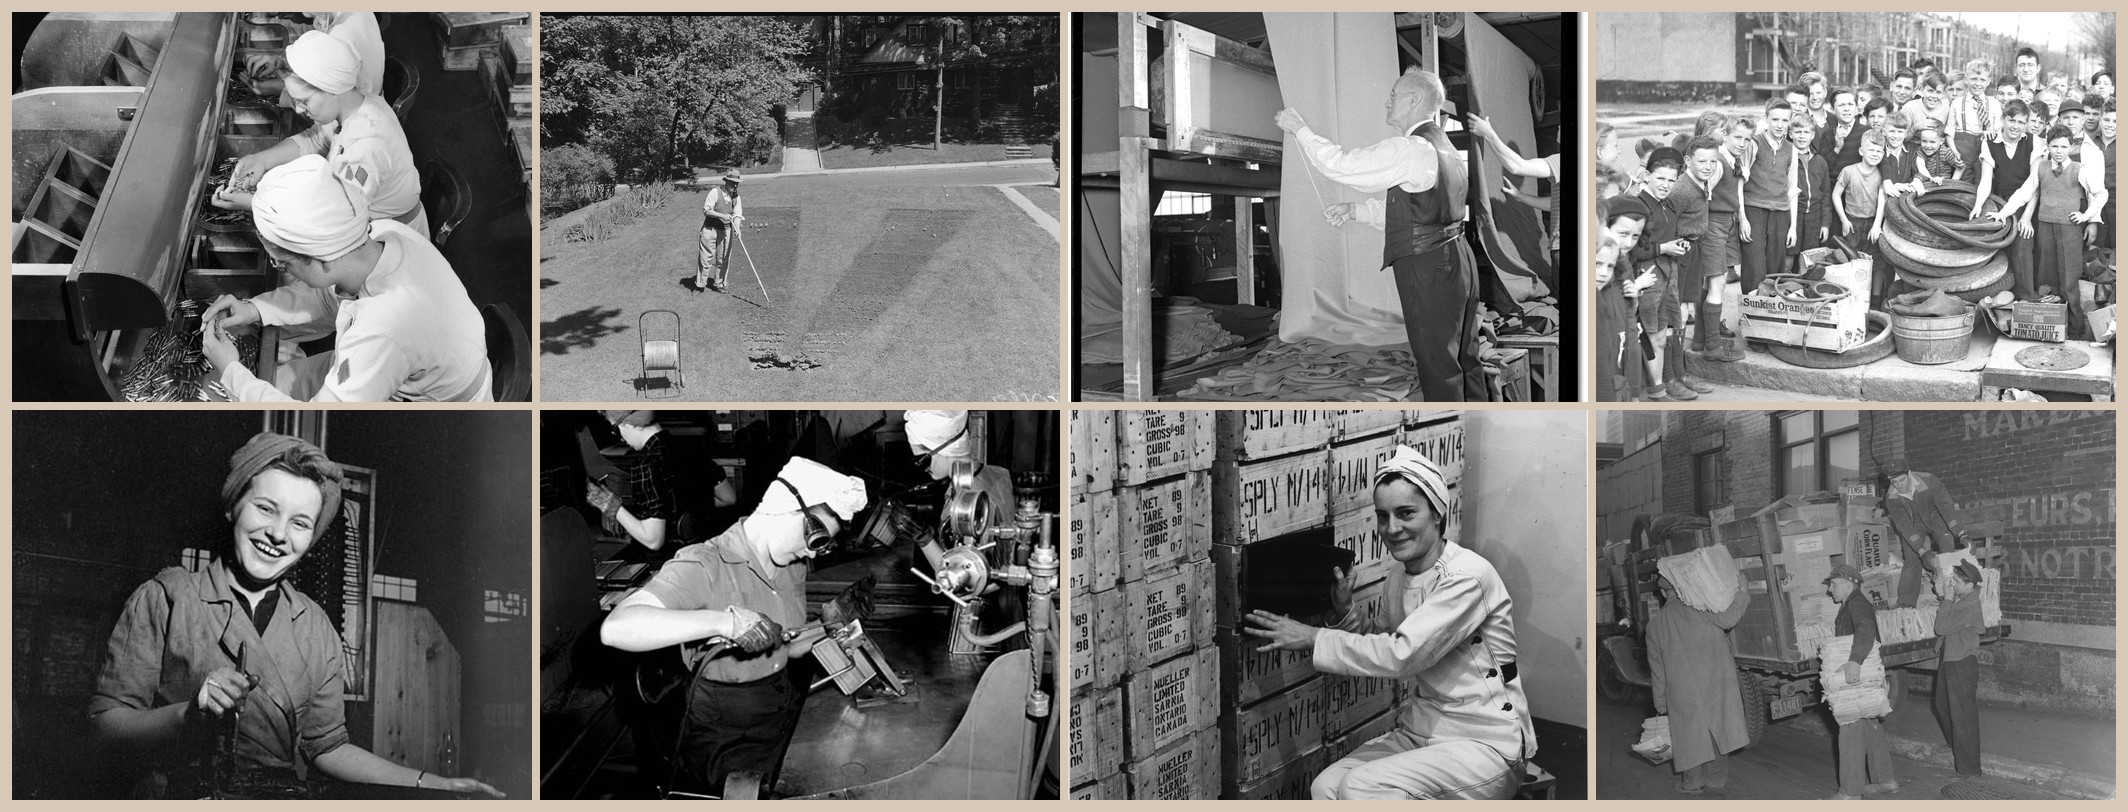
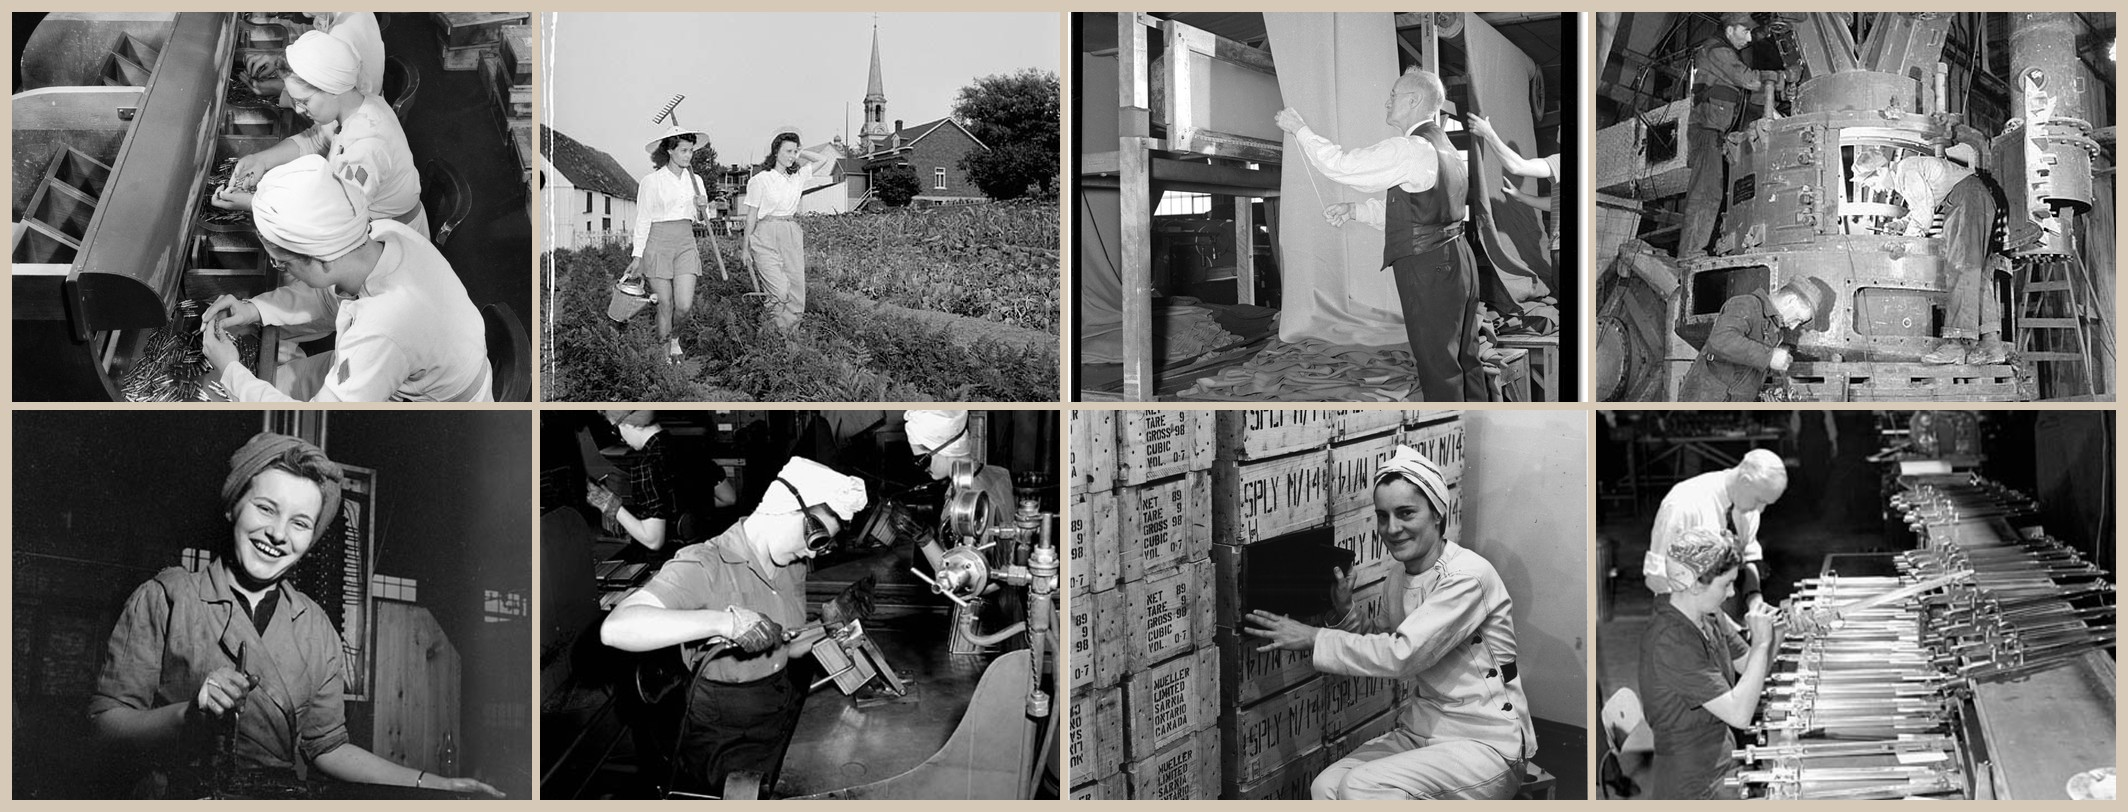
Drop Crown-copyright Korea still; use expired NFB home-front photos
Remove the DND Special Force Korea photograph (Copyright: Government of Canada). Fill that slot with Hélène Lalonde at Montreal Cottons (NFB Photothèque, copyright expired). Cover food, rubber, and salvage with a Toronto victory garden (CC BY 2.0), the Perry sisters plant garden and Polymer Rubber plant (NFB Expired / CC BY 2.0), and the GECO clothing salvage still.

Changed region(s): [[0.7444, 0.0, 1.0, 0.9852], [0.2481, 0.0, 0.4962, 0.4926]]

diff --git a/docs/imagery-sources.md b/docs/imagery-sources.md
@@ -2,6 +2,8 @@
 
 The README uses official Canadian archival photographs. Every file below was checked for watermarks. Search-preview thumbs and City of Edmonton Archives overlay marks were replaced. Prefer the official item or the archive's own Flickr Commons original over a third-party mirror.
 
+**License rule:** do not use LAC Department of National Defence / Special Force photographs that still carry `Copyright: Government of Canada`, even when Restrictions on use are `Nil`. Those are Crown copyright, not an open citation license for this README. Prefer NFB Photothèque stills marked Copyright `Expired`, LAC Flickr Commons `CC BY 2.0`, Provincial Archives of Alberta expired / no known restrictions, City of Edmonton Archives public domain, or another official Canadian archive with an explicit open citation license.
+
 ## README feature images
 
 1. `docs/assets/women-workers-small-arms.jpg` — **kept** (clean official LAC download, no watermark)
@@ -28,17 +30,17 @@ The README uses official Canadian archival photographs. Every file below was che
 - License / restrictions: Restrictions on use `nil`; Copyright `Expired`
 - README credit: pair credit with item 1
 
-3. `docs/assets/five-soldiers-korea-1951.jpg` — **added** (replaces watermarked `high-level-bridge-edmonton-1909.jpg`)
+3. `docs/assets/helene-lalonde-textile.jpg` — **promoted** (replaces the withdrawn Crown-copyright Korea still)
 
-- Title: `[Five Canadian soldiers in Korea]`
-- Date: `3 June 1951`
-- Creator: Sgt. Bill Olson, 25 PRU (Canadian Public Relations Unit)
-- Archive: Library and Archives Canada, Department of National Defence fonds / Canadian Forces Joint Imagery Centre
-- Reference: Item ID `6266417`; SF-1789; ecopy `e011502811`
-- Official record: `https://recherche-collection-search.bac-lac.gc.ca/eng/home/record?app=fonandcol&ecopy=e011502811&idnumber=6266417`
-- Download URL used: `https://central.bac-lac.gc.ca/.item?id=e011502811&op=img&app=fonandcol`
-- License / restrictions: Official DND photograph. Crown copyright expired (first published 1951; Crown term is the remainder of the calendar year of publication plus 50 years). Credit required.
-- README credit: `Sgt. Bill Olson / Department of National Defence / Library and Archives Canada, e011502811 (Crown copyright expired).`
+- Title: `Helene Lalonde, woman worker at the Montreal Cottons Textile factory, operates a loom`
+- Date: wartime NFB still (WRM 1595)
+- Creator: Nicholas Morant
+- Archive: Library and Archives Canada / National Film Board of Canada. Photothèque
+- Reference: `PA-160566` / WRM 1595 / Item `3192151` / ecopy `a160566`
+- Official record: `https://recherche-collection-search.bac-lac.gc.ca/eng/home/record?app=FonAndCol&ecopy=a160566&idnumber=3192151`
+- Download URL used: existing repo file from the official LAC item endpoint (3204×2400)
+- License / restrictions: Restrictions on use `nil`; Copyright `Expired`
+- README credit: `Nicholas Morant / National Film Board of Canada. Photothèque / Library and Archives Canada, PA-160566 (copyright expired).`
 
 4. `docs/assets/welder-robin-nodwell-calgary-1963.jpg` — **replaced file** (same slot; higher-res PAA Flickr Commons original)
 
@@ -104,17 +106,16 @@ The README uses official Canadian archival photographs. Every file below was che
 - License / restrictions: `Public domain` (Archives of Ontario GLAM upload)
 - README credit: `Archives of Ontario, I0004928, public domain`
 
-8. `docs/assets/children-collecting-rubber-rosemont.jpg` — **added** (replaces watermarked `alberta-lumber-co-factory-1908.jpg`)
+8. `docs/assets/victory-gardens-toronto-1943.jpg` — **promoted to the pair slot** (food / victory garden)
 
-- Title: `Children collecting rubber` / two boys in Rosemont gathering scrap rubber for the armed forces
-- Date: `29 April 1942`
-- Creator: Conrad Poirier (1912–1968)
-- Archive: Bibliothèque et Archives nationales du Québec, Fonds Conrad Poirier
-- Reference: `P48,S1,P7495`
-- Official record: `http://pistard.banq.qc.ca/unite_chercheurs/Prc_acces_unite_chercheur?p_codedepo=06M&P_codeclas=P&P_numfonds=48&P_numserie=1&P_numsseri=0&P_numssser=0&P_numdossi=0&P_numpiece=7495`
-- Download URL used: `https://upload.wikimedia.org/wikipedia/commons/0/0b/Children_collecting_rubber.jpg`
-- License / restrictions: `Public domain` in Canada (Poirier died 1968; work entered the public domain under the former life-plus-50 term before the 2022 term change). Commons: `PD-Canada` / `PD-1996`.
-- README credit: `Conrad Poirier / BAnQ, P48,S1,P7495, public domain`
+- Title: `Victory Gardens, A.J. Denne, 15 Pine Crescent`
+- Date: `5 June 1943`
+- Creator: Globe and Mail staff photographer
+- Archive: City of Toronto Archives, fonds 1266 (Globe and Mail fonds)
+- Official Flickr (City of Toronto Archives / Toronto History): `https://www.flickr.com/photos/torontohistory/30116253760/`
+- Download URL used: `https://upload.wikimedia.org/wikipedia/commons/2/22/Victory_Gardens%2C_A.J._Denne%2C_15_Pine_Crescent_%2830116253760%29.jpg` (caption strip cropped in-repo)
+- License / restrictions: `CC BY 2.0` (FlickreviewR 2 confirmed)
+- README credit: `City of Toronto Archives, fonds 1266, CC BY 2.0`
 
 9. `docs/assets/collage-museum-wall.jpg` — **rebuilt** 2×4 grid from the eight stills below
 
@@ -130,16 +131,16 @@ The README uses official Canadian archival photographs. Every file below was che
 - License: `Public domain`
 - README credit: `Archives of Ontario, I0058215, public domain`
 
-11. `docs/assets/victory-gardens-toronto-1943.jpg`
+11. `docs/assets/perry-sisters-victory-garden-1942.jpg`
 
-- Title: `Victory Gardens, A.J. Denne, 15 Pine Crescent`
-- Date: `5 June 1943`
-- Creator: Globe and Mail staff photographer
-- Archive: City of Toronto Archives, fonds 1266 (Globe and Mail fonds)
-- Official Flickr (City of Toronto Archives / Toronto History): `https://www.flickr.com/photos/torontohistory/30116253760/`
-- Download URL used: `https://upload.wikimedia.org/wikipedia/commons/2/22/Victory_Gardens%2C_A.J._Denne%2C_15_Pine_Crescent_%2830116253760%29.jpg` (caption strip cropped in-repo)
-- License / restrictions: `CC BY 2.0` (FlickreviewR 2 confirmed)
-- README credit: `City of Toronto Archives, fonds 1266, CC BY 2.0`
+- Title: `The Perry sisters, employed at the Dominion Arsenals Ltd. plant, armed with rake, watering can and pitchfork`
+- Date: `24 August 1942`
+- Creator: Harry Rowed
+- Archive: Library and Archives Canada / National Film Board of Canada. Photothèque
+- Official Flickr Commons: `https://www.flickr.com/photos/lac-bac/20256970894/`
+- Download URL used: `https://upload.wikimedia.org/wikipedia/commons/a/ac/The_Perry_sisters%2C_employed_at_the_Dominion_Arsenals_Ltd._plant%2C_armed_with_rake%2C_watering_can_and_pitchfork_%2820256970894%29.jpg`
+- License / restrictions: LAC Flickr Commons `CC BY 2.0`
+- README credit: `Harry Rowed / NFB Photothèque / LAC, CC BY 2.0`
 
 12. `docs/assets/making-uniforms-tip-top-tailors.jpg`
 
@@ -153,17 +154,17 @@ The README uses official Canadian archival photographs. Every file below was che
 - License / restrictions: `Copyright expired` / `Public domain` (pre-1946 Canadian photograph)
 - README credit: `Gordon W. Powley / Archives of Ontario, C 109-2-0-18, copyright expired`
 
-13. `docs/assets/brigade-enfantine-rosemont.jpg`
+13. `docs/assets/polymer-rubber-plant-sarnia-1943.jpg`
 
-- Title: `Children. Rosemont Children Gather Rubber for Salvage`
-- Date: `29 April 1942`
-- Creator: Conrad Poirier
-- Archive: BAnQ, Fonds Conrad Poirier
-- Reference: `P48,S1,P7493`
-- Official record: `http://pistard.banq.qc.ca/unite_chercheurs/Prc_acces_unite_chercheur?p_codedepo=06M&P_codeclas=P&P_numfonds=48&P_numserie=1&P_numsseri=0&P_numssser=0&P_numdossi=0&P_numpiece=7493`
-- Download URL used: `https://upload.wikimedia.org/wikipedia/commons/d/dc/Brigade_enfantine_dans_Rosemont.jpg`
-- License / restrictions: `Public domain` (`PD-Canada`)
-- README credit: `Conrad Poirier / BAnQ, P48,S1,P7493, public domain`
+- Title: `Workmen assemble a coal pulverizing mill in the Polymer Rubber Corporation plant`
+- Date: `October 1943`
+- Creator: Harry Rowed
+- Archive: Library and Archives Canada / National Film Board of Canada. Photothèque
+- Reference: ecopy `e000761792` / Item `3196996`
+- Official record: `https://recherche-collection-search.bac-lac.gc.ca/eng/home/record?app=FonAndCol&ecopy=e000761792&idnumber=3196996`
+- Download URL used: `https://central.bac-lac.gc.ca/.item?id=e000761792&op=img&app=fonandcol`
+- License / restrictions: Restrictions on use `nil`; Copyright `Expired`
+- README credit: `Harry Rowed / NFB Photothèque / LAC, e000761792, copyright expired`
 
 14. `docs/assets/small-arms-machinist-laughing.jpg` — **kept** (clean official LAC download)
 
@@ -201,17 +202,20 @@ The README uses official Canadian archival photographs. Every file below was che
 - License: `Public domain`
 - README credit: `Archives of Ontario, I0004900, public domain`
 
-17. `docs/assets/news-salvage-montreal-1943.jpg`
+17. `docs/assets/john-inglis-assembling-bren-blank.jpg` — **kept** (clean official LAC download)
 
-- Title: `News. Salvage`
-- Date: `12 November 1943`
-- Creator: Conrad Poirier
-- Archive: BAnQ, Fonds Conrad Poirier
-- Reference: `P48,S1,P9360`
-- Official record: `http://pistard.banq.qc.ca/unite_chercheurs/Prc_acces_unite_chercheur?p_codedepo=06M&P_codeclas=P&P_numfonds=48&P_numserie=1&P_numsseri=0&P_numssser=0&P_numdossi=0&P_numpiece=9360`
-- Download URL used: `https://upload.wikimedia.org/wikipedia/commons/a/a9/News._Salvage_BAnQ_P48S1P09360.jpg`
-- License / restrictions: `Public domain` (`PD-Canada`)
-- README credit: `Conrad Poirier / BAnQ, P48,S1,P9360, public domain`
+- Title: `Woman munitions worker assembling a Bren gun blank at the John Inglis Co. Bren gun plant`
+- Date: `10 May 1941`
+- Archive: Library and Archives Canada / National Film Board of Canada. Photothèque
+- Reference: ecopy `e000760439` / Item `3195830` / WRM-805 on the print
+- Official record: `https://recherche-collection-search.bac-lac.gc.ca/eng/Home/Record?app=fonandcol&IdNumber=3195830&ecopy=e000760439`
+- Download URL used (existing repo file): `https://central.bac-lac.gc.ca/.item?id=e000760439&op=thumb&height=2400&app=fonandcol`
+- License / restrictions: NFB Photothèque wartime still; Copyright `Expired`
+- README credit: `NFB Photothèque / LAC, e000760439, copyright expired`
+
+## Withdrawn (not an open citation license)
+
+- `five-soldiers-korea-1951.jpg` (LAC e011502811, Sgt. Bill Olson / DND, 3 June 1951) was downloaded from the official LAC item endpoint, then **removed**. Korean War Special Force / DND stills at LAC commonly remain `Copyright: Government of Canada`. Restrictions on use `Nil` is not enough. No clean open-license Korea still was found, so Korea is skipped.
 
 ## Removed from the README (watermarked City of Edmonton Archives previews)
 
@@ -221,13 +225,9 @@ The City of Edmonton Archives marks EA-500 items Public Domain at the item level
 - `walters-saw-mill-edmonton-1908.jpg` — EA-500-205, watermarked 720×501 preview
 - `alberta-lumber-co-factory-1908.jpg` — EA-500-290, watermarked 734×511 preview
 
-## Additional clean LAC stills already in the repo (not currently embedded in the README)
+## Additional clean LAC stills already in the repo (not currently a README `<img>`)
 
-These remain available for later use. Each is an official LAC item download with expired copyright or Flickr Commons CC BY.
-
-- `docs/assets/helene-lalonde-textile.jpg` — LAC official, 3204×2400
 - `docs/assets/ready-for-action-shells.jpg` — LAC/NFB still, WAM-2817 on the print, 2305×2400
-- `docs/assets/john-inglis-assembling-bren-blank.jpg` — LAC e000760439, 1760×2400
 
 ## Older low-resolution extras (not in the README)
 

diff --git a/README.md b/README.md
@@ -86,10 +86,10 @@ Wiring up the places where the work lives usually costs money, time, and technic
 **WorkspaceAlberta solves the last mile** by giving an AI assistant the wiring it needs to search, compare, summarize, and brief public procurement opportunities from inside the workspace where the owner is already working.
 
 <p align="center">
-  <img src="docs/assets/five-soldiers-korea-1951.jpg" alt="Five Canadian soldiers on observation duty in Korea, 3 June 1951." width="100%">
+  <img src="docs/assets/helene-lalonde-textile.jpg" alt="Hélène Lalonde drawing in ends at a loom, Montreal Cottons, Valleyfield." width="100%">
 </p>
 
-<p align="center"><em>Canadian soldiers on observation duty in Korea, 3 June 1951 — Sgt. Bill Olson / Department of National Defence / Library and Archives Canada, e011502811 (Crown copyright expired).</em></p>
+<p align="center"><em>Hélène Lalonde drawing in ends at Montreal Cottons, Valleyfield — Nicholas Morant / National Film Board of Canada. Photothèque / Library and Archives Canada, PA-160566 (copyright expired).</em></p>
 
 ---
 
@@ -198,10 +198,10 @@ Any tool that helps a fabricator **create demand**, a mill **manufacture more ef
 
 <p align="center">
   <img src="docs/assets/clothing-salvage-geco.jpg" alt="Clothing salvage centre at the General Engineering Company munitions factory, Scarborough, circa 1943." width="49%">
-  <img src="docs/assets/children-collecting-rubber-rosemont.jpg" alt="Two boys collecting scrap rubber for a wartime salvage drive in Rosemont, Montreal, 29 April 1942." width="49%">
+  <img src="docs/assets/victory-gardens-toronto-1943.jpg" alt="A.J. Denne tending a V-shaped victory garden at 15 Pine Crescent, Toronto, 5 June 1943." width="49%">
 </p>
 
-<p align="center"><em>Home-front salvage: a clothing depot at the GECO munitions works, Scarborough, c. 1943 (Archives of Ontario, I0004928, public domain); boys collecting scrap rubber in Rosemont, Montréal, 29 April 1942 (Conrad Poirier / BAnQ, P48,S1,P7495, public domain).</em></p>
+<p align="center"><em>Home-front salvage and food: a clothing depot at the GECO munitions works, Scarborough, c. 1943 (Archives of Ontario, I0004928, public domain); A.J. Denne's victory garden, Toronto, 5 June 1943 (City of Toronto Archives, fonds 1266, CC BY 2.0).</em></p>
 
 More contracts won. More jobs kept. More skill developed. More value staying here at home.
 
@@ -246,10 +246,10 @@ Data and model sources:
 Image source notes live in [`docs/imagery-sources.md`](docs/imagery-sources.md).
 
 <p align="center">
-  <img src="docs/assets/collage-museum-wall.jpg" alt="A museum wall of Canadian industrial and home-front photography: munitions, victory gardens, salvage drives, and shops." width="100%">
+  <img src="docs/assets/collage-museum-wall.jpg" alt="A museum wall of Canadian industrial and home-front photography: munitions, victory gardens, synthetic rubber, and shops." width="100%">
 </p>
 
-<p align="center"><em>The museum wall. Top row: inspecting ammunition at GECO, Scarborough, c. 1943 (Archives of Ontario, I0058215, public domain); victory garden, A.J. Denne, Toronto, 5 June 1943 (City of Toronto Archives, fonds 1266, CC BY 2.0); cutting cloth for military uniforms at Tip Top Tailors, Toronto, 1939–45 (Gordon W. Powley / Archives of Ontario, C 109-2-0-18, copyright expired); Rosemont children's rubber salvage brigade, Montréal, 29 April 1942 (Conrad Poirier / BAnQ, P48,S1,P7493, public domain). Bottom row: a machinist laughing at Small Arms Limited, 26 May 1942 (Nicholas Morant / LAC, e000760725, CC BY 2.0); welding Bren-gun magazine clips at John Inglis, April 1944 (Ronny Jaques / LAC, e000762114, CC BY 2.0); packing crates at GECO, c. 1943 (Archives of Ontario, I0004900, public domain); newspaper salvage, Montréal, 12 November 1943 (Conrad Poirier / BAnQ, P48,S1,P9360, public domain).</em></p>
+<p align="center"><em>The museum wall. Top row: inspecting ammunition at GECO, Scarborough, c. 1943 (Archives of Ontario, I0058215, public domain); the Perry sisters in the plant vegetable garden, Dominion Arsenals, 24 August 1942 (Harry Rowed / NFB Photothèque / LAC, CC BY 2.0); cutting cloth for military uniforms at Tip Top Tailors, Toronto, 1939–45 (Gordon W. Powley / Archives of Ontario, C 109-2-0-18, copyright expired); assembling a coal-pulverizing mill at Polymer Rubber, Sarnia, October 1943 (Harry Rowed / NFB Photothèque / LAC, e000761792, copyright expired). Bottom row: a machinist laughing at Small Arms Limited, 26 May 1942 (Nicholas Morant / LAC, e000760725, CC BY 2.0); welding Bren-gun magazine clips at John Inglis, April 1944 (Ronny Jaques / LAC, e000762114, CC BY 2.0); packing crates at GECO, c. 1943 (Archives of Ontario, I0004900, public domain); assembling a Bren-gun blank at John Inglis, 10 May 1941 (NFB Photothèque / LAC, e000760439, copyright expired).</em></p>
 
 ---
 
